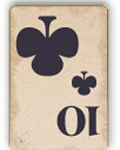
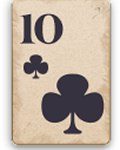
added player count ui each cards

diff --git a/src/components/CustomCardView.vue b/src/components/CustomCardView.vue
@@ -12,21 +12,15 @@
   >
     <div class="flip-card-inner">
       <div class="flip-card-front">
-        <el-image
-          fit="cover"
-          style="width: 80px; height: 120px"
-          src="/game/card_back_bg.png"
-          alt="black"
-        />
+        <div class="player-count">
+          <el-image class="player-count-icon" src="/game/players_icon_xs.png" />
+          <el-text size="small" class="player-count-text">{{ userCount }}</el-text>
+        </div>
       </div>
-      <div class="flip-card-back">
-        <el-image
-          fit="cover"
-          style="width: 80px; height: 120px"
-          :src="cards[Math.floor(Math.random() * 10)]"
-          alt="ace"
-        />
-      </div>
+      <div
+        class="flip-card-back"
+        :style="{ backgroundImage: 'url(' + cards[Math.floor(Math.random() * 10)] + ')' }"
+      />
     </div>
   </div>
 </template>
@@ -47,6 +41,7 @@ type Props = {
 const emit = defineEmits(['handleSelectCard'])
 const props = defineProps<Props>()
 
+const userCount = ref(0)
 const parentWidth = ref<number | null>(null)
 const target = ref<HTMLElement>()
 const cards = ref([
@@ -88,7 +83,7 @@ const GiveCards = async () => {
   const targetX = LEFT_START + cardX
 
   await apply({
-    rotate: [0, 100, 170, 180],
+    rotate: [0, 90, 180, 270, 360],
     translateX: targetX,
     translateY: 230,
     transition: {
@@ -137,12 +132,6 @@ watch(
 </script>
 
 <style scoped>
-.card-image {
-  object-fit: cover;
-  width: 100%;
-  height: 100%;
-}
-
 .flip-card {
   top: 0;
   position: absolute;
@@ -152,9 +141,52 @@ watch(
   perspective: 1000px;
 }
 
+.flip-card-front {
+  background-image: url('/game/card_back_bg.png');
+  background-size: cover;
+  background-position: center;
+  width: 80px;
+  height: 120px;
+
+  display: flex;
+  align-items: start;
+  justify-content: start;
+  padding: 8px;
+}
+
+.player-count {
+  display: flex;
+  align-items: center;
+  justify-content: center;
+  gap: 4px;
+
+  background: rgba(0, 0, 0, 0.3);
+  border-radius: 30px;
+  padding: 0 0.5em;
+  /* background: white; */
+  /* border: 1px solid black; */
+}
+
+.player-count-text {
+  margin-top: 2px;
+  color: white;
+}
+.player-count-icon {
+  width: 15px;
+  height: 15px;
+}
+
+.flip-card-back {
+  /* background-image: url('/game/card_back_bg.png'); */
+  background-size: cover;
+  background-position: center;
+  width: 80px;
+  height: 120px;
+}
+
 .flip-card-inner {
   position: relative;
-  width: 100%;
+  width: 80px;
   height: 120px;
   text-align: center;
   transition: transform 0.3s;
@@ -172,18 +204,13 @@ watch(
 .flip-card-front,
 .flip-card-back {
   position: absolute;
-  width: 100%;
-  height: 100%;
+  width: 80px;
+  height: 120px;
   -webkit-backface-visibility: hidden; /* Safari */
   backface-visibility: hidden;
 }
 
-.flip-card-front {
-  border-radius: 1em;
-}
-
 .flip-card-back {
-  border-radius: 1em;
   transform: rotateY(180deg);
 }
 

diff --git a/src/views/GameView.vue b/src/views/GameView.vue
@@ -39,7 +39,7 @@
       </div>
 
       <div>
-        <el-button :disabled="startGame === 'Start'" @click="handleAnimation" class="start-btn">
+        <el-button :disabled="startGame === 'Start'" @click="startGame = 'Start'" class="start-btn">
           <img
             draggable="false"
             src="/game/game_bet.png"
@@ -48,16 +48,6 @@
             class="game-start"
           />
         </el-button>
-        <!-- <img
-          v-else
-          @click="handleResetCard"
-          draggable="false"
-          src="/game/game_again.png"
-          alt="game_again"
-          fit="cover"
-          style="width: 100px; height: 100px; margin-top: 4em"
-          class="game-start"
-        /> -->
       </div>
     </el-main>
     <el-footer>FOOTER</el-footer>
@@ -70,14 +60,10 @@ import { ref, watch } from 'vue'
 
 let intervalId: number | undefined = undefined
 
-const startGame = ref<'Start' | 'Pending' | 'Done'>('Pending')
 const timer = ref(10)
 const reveal = ref(false)
 const selectedCard = ref<number | null>(null)
-
-const handleAnimation = () => {
-  startGame.value = 'Start'
-}
+const startGame = ref<'Start' | 'Pending' | 'Done'>('Pending')
 
 const handleResetCard = () => {
   startGame.value = 'Done'
